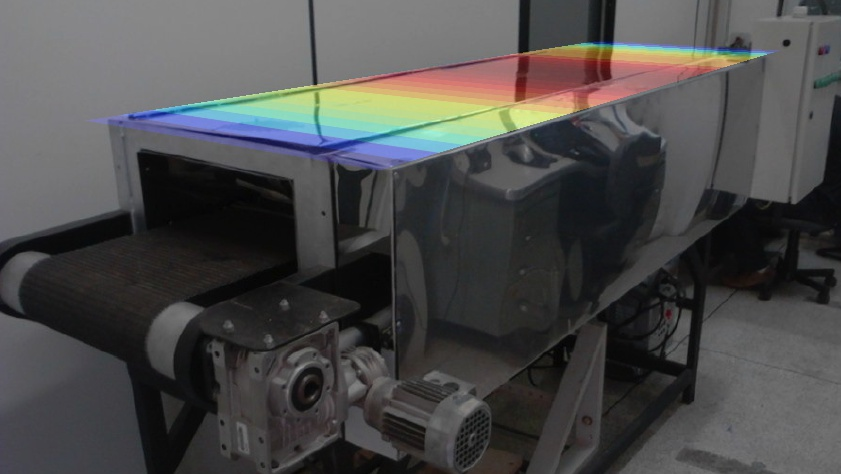
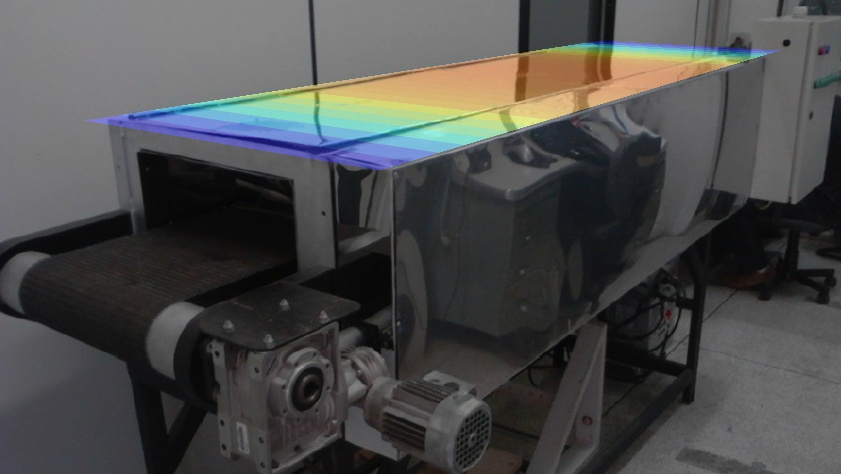
biscoito

Changed region(s): [[0.3401, 0.0886, 0.9275, 0.2658], [0.0927, 0.2363, 0.4946, 0.3544]]

diff --git a/source/forno_gui.py b/source/forno_gui.py
@@ -242,7 +242,7 @@ class Ui_MainWindow(object):
         self.label_40.setObjectName(_fromUtf8("label_40"))
         self.toolBox.addItem(self.page, _fromUtf8(""))
         self.page_3 = QtGui.QWidget()
-        self.page_3.setGeometry(QtCore.QRect(0, 0, 100, 30))
+        self.page_3.setGeometry(QtCore.QRect(0, 0, 581, 382))
         self.page_3.setObjectName(_fromUtf8("page_3"))
         self.comboBox_displayPerfilPotencia = QtGui.QComboBox(self.page_3)
         self.comboBox_displayPerfilPotencia.setGeometry(QtCore.QRect(10, 150, 91, 31))
@@ -335,7 +335,7 @@ class Ui_MainWindow(object):
         self.label_layoutForno_2.setAlignment(QtCore.Qt.AlignCenter)
         self.label_layoutForno_2.setObjectName(_fromUtf8("label_layoutForno_2"))
         self.pushButton_teste1 = QtGui.QPushButton(self.tab_12)
-        self.pushButton_teste1.setGeometry(QtCore.QRect(30, 420, 101, 31))
+        self.pushButton_teste1.setGeometry(QtCore.QRect(490, 420, 81, 31))
         self.pushButton_teste1.setObjectName(_fromUtf8("pushButton_teste1"))
         self.label_37 = QtGui.QLabel(self.tab_12)
         self.label_37.setGeometry(QtCore.QRect(20, 10, 481, 281))
@@ -344,13 +344,35 @@ class Ui_MainWindow(object):
         self.label_colorbar = QtGui.QLabel(self.tab_12)
         self.label_colorbar.setGeometry(QtCore.QRect(520, 20, 51, 271))
         self.label_colorbar.setObjectName(_fromUtf8("label_colorbar"))
+        self.checkBox_calcPerfil = QtGui.QCheckBox(self.tab_12)
+        self.checkBox_calcPerfil.setGeometry(QtCore.QRect(170, 430, 131, 21))
+        self.checkBox_calcPerfil.setObjectName(_fromUtf8("checkBox_calcPerfil"))
+        self.checkBox_mostraPerfil = QtGui.QCheckBox(self.tab_12)
+        self.checkBox_mostraPerfil.setGeometry(QtCore.QRect(300, 430, 151, 21))
+        self.checkBox_mostraPerfil.setObjectName(_fromUtf8("checkBox_mostraPerfil"))
+        self.checkBox_perfilAuto = QtGui.QCheckBox(self.tab_12)
+        self.checkBox_perfilAuto.setEnabled(False)
+        self.checkBox_perfilAuto.setGeometry(QtCore.QRect(10, 430, 61, 18))
+        self.checkBox_perfilAuto.setChecked(False)
+        self.checkBox_perfilAuto.setObjectName(_fromUtf8("checkBox_perfilAuto"))
+        self.spinBox_calcPerfil = QtGui.QSpinBox(self.tab_12)
+        self.spinBox_calcPerfil.setGeometry(QtCore.QRect(90, 430, 51, 21))
+        self.spinBox_calcPerfil.setMinimum(1)
+        self.spinBox_calcPerfil.setProperty("value", 5)
+        self.spinBox_calcPerfil.setObjectName(_fromUtf8("spinBox_calcPerfil"))
         self.tabWidget_4.addTab(self.tab_12, _fromUtf8(""))
         self.tab_13 = QtGui.QWidget()
         self.tab_13.setObjectName(_fromUtf8("tab_13"))
         self.widget_3 = matplotlibWidget(self.tab_13)
         self.widget_3.setEnabled(False)
-        self.widget_3.setGeometry(QtCore.QRect(10, 10, 561, 391))
+        self.widget_3.setGeometry(QtCore.QRect(10, 270, 561, 131))
         self.widget_3.setObjectName(_fromUtf8("widget_3"))
+        self.pushButton_testeAlimento = QtGui.QPushButton(self.tab_13)
+        self.pushButton_testeAlimento.setGeometry(QtCore.QRect(10, 410, 101, 41))
+        self.pushButton_testeAlimento.setObjectName(_fromUtf8("pushButton_testeAlimento"))
+        self.label_39 = QtGui.QLabel(self.tab_13)
+        self.label_39.setGeometry(QtCore.QRect(20, 20, 531, 241))
+        self.label_39.setObjectName(_fromUtf8("label_39"))
         self.tabWidget_4.addTab(self.tab_13, _fromUtf8(""))
         self.tabWidget.addTab(self.tab_9, _fromUtf8(""))
         self.tab_2 = QtGui.QWidget()
@@ -1073,8 +1095,8 @@ class Ui_MainWindow(object):
         self.retranslateUi(MainWindow)
         self.tabWidget.setCurrentIndex(2)
         self.tabWidget_2.setCurrentIndex(0)
-        self.toolBox.setCurrentIndex(0)
-        self.tabWidget_4.setCurrentIndex(1)
+        self.toolBox.setCurrentIndex(1)
+        self.tabWidget_4.setCurrentIndex(2)
         self.tabWidget_3.setCurrentIndex(0)
         self.comboBox_baudRate.setCurrentIndex(1)
         self.comboBox_cameraResolucao.setCurrentIndex(3)
@@ -1141,7 +1163,12 @@ class Ui_MainWindow(object):
         self.pushButton_teste1.setText(_translate("MainWindow", "Teste 1", None))
         self.label_37.setText(_translate("MainWindow", "TextLabel", None))
         self.label_colorbar.setText(_translate("MainWindow", "colorbar", None))
+        self.checkBox_calcPerfil.setText(_translate("MainWindow", "Calcular Perfil", None))
+        self.checkBox_mostraPerfil.setText(_translate("MainWindow", "Mostrar Imagem", None))
+        self.checkBox_perfilAuto.setText(_translate("MainWindow", "Auto", None))
         self.tabWidget_4.setTabText(self.tabWidget_4.indexOf(self.tab_12), _translate("MainWindow", "Simulacao Forno", None))
+        self.pushButton_testeAlimento.setText(_translate("MainWindow", "Teste", None))
+        self.label_39.setText(_translate("MainWindow", "TextLabel", None))
         self.tabWidget_4.setTabText(self.tabWidget_4.indexOf(self.tab_13), _translate("MainWindow", "Simulacao Alimento", None))
         self.tabWidget.setTabText(self.tabWidget.indexOf(self.tab_9), _translate("MainWindow", "Grafico", None))
         self.label_camera.setText(_translate("MainWindow", "PI Camera", None))

diff --git a/source/simulacao/alimento.py b/source/simulacao/alimento.py
@@ -1,7 +1,45 @@
 # -*- coding: latin-1 -*-
 import numpy as np
+from PyQt4 import QtGui
+from PyQt4 import QtCore
+from matplotlib import rcParams, cm
+import cv2
+from modulo_global import *
 
-def evolui_tempo(tf,
+def teste(self):
+    T0 = np.ones((30,60))*300 #   dimensão 2, size nr + 1, nh + 1
+    T = evolui_tempo(10, T0, T_paredes=500, T_esteira=400) - 273.5
+    T = np.flipud(T)
+    T = np.concatenate((np.fliplr(T),T),axis=1)
+    self.ui.widget_3.canvas.ax.clear()
+    cax = self.ui.widget_3.canvas.ax.imshow(T,label="teste",interpolation='nearest',
+                                      aspect='auto', cmap=cm.jet)#, vmin=25, vmax=350)
+    self.ui.widget_3.canvas.ax.axis('off')
+    self.ui.widget_3.canvas.fig.savefig('imagens/temp-alimento.jpg', bbox_inches='tight', pad_inches=0)
+    self.ui.widget_3.canvas.ax.axis('on')
+    #self.ui.widget_2.canvas.fig.colorbar(cax)
+    self.ui.widget_3.canvas.draw()
+
+    perfil = cv2.imread('imagens/temp-alimento.jpg')
+    perfil = perfil[7:-25,27:]
+
+    global biscoito
+
+    col, lin, _ = biscoito.shape
+    perfil = cv2.resize(perfil,(lin, col))
+
+    pts1 = np.float32([[0,0],[0,col],[lin,col],[lin,0]])
+    p1, p2, p3, p4 = [85,120], [85,320], [1050,320], [1050,120]
+    pts2 = np.float32([p1, p2, p3, p4])
+
+    M = cv2.getPerspectiveTransform(pts1,pts2)
+
+    perfil = cv2.warpPerspective(perfil,M,(lin,col))
+    perfil = cv2.addWeighted(biscoito,0.8,perfil,0.6,0)
+    cv2.imwrite('imagens/teste-img2.jpg',perfil)
+    self.ui.label_39.setPixmap(QtGui.QPixmap("imagens/teste-img2.jpg").scaled(self.ui.label_39.size(), QtCore.Qt.KeepAspectRatio))
+
+def evolui_tempo(tf, T,
                  dt=0.05, nr = 60, nh = 30,
                  R = 5.0e-2, H = 1.0e-2,
                  k = 0.1, rho = 400, Cp = 3000, h_convec = 5.0, epsion = 0.7,
@@ -41,7 +79,7 @@ def evolui_tempo(tf,
     r = np.linspace(0,R,nr)
 
     # cria a matriz da temperatura inicial - array of float
-    T = np.ones((nh,nr))*T_ambiente #   dimensão 2, size nr + 1, nh + 1
+    #T = np.ones((nh,nr))*T_ambiente #   dimensão 2, size nr + 1, nh + 1
 
     # matriz para valores de r en função, montadas em uma matriz concatenada de
     # colunas para operação vetorizada no loop

diff --git a/source/tela.py b/source/tela.py
@@ -8,6 +8,7 @@ import banco.bd_config as bd_config
 import banco.bd_calibracao as bd_calibracao
 import banco.bd_sensores as bd_sensores
 import simulacao.forno1d
+import simulacao.alimento
 import forno_gui, calibracao, comunicacao_serial, automatico
 import camera_rp, graficos, exporta_experimentos, controle_pid
 
@@ -155,6 +156,7 @@ class Main(QtGui.QMainWindow):
 
         ####### Connexões #####################################################
         self.ui.pushButton_teste1.pressed.connect(partial(simulacao.forno1d.teste,self))
+        self.ui.pushButton_testeAlimento.pressed.connect(partial(simulacao.alimento.teste,self))
 
         self.ui.pushButton_pidUpdate.pressed.connect(partial(controle_pid.update_config_pid,self))
         self.ui.pushButton_pid_limpar.pressed.connect(partial(controle_pid.limpa_lineEdit,self))

diff --git a/source/simulacao/forno1d.py b/source/simulacao/forno1d.py
@@ -12,11 +12,11 @@ import graficos
 from modulo_global import *
 
 def teste(self):
-    T = calcula_perfil(200,250,280,260,300,100,350)
+    T = calcula_perfil(30,250,280,260,300,100,350)
     R = gera_matriz_imagem(T)
     self.ui.widget_2.canvas.ax.clear()
     cax = self.ui.widget_2.canvas.ax.imshow(R,label="teste",interpolation='nearest',
-                                      aspect='auto', cmap=cm.jet)#, vmin=0, vmax=400)
+                                      aspect='auto', cmap=cm.jet, vmin=25, vmax=350)
     self.ui.widget_2.canvas.ax.axis('off')
     self.ui.widget_2.canvas.fig.savefig('imagens/temperatura.jpg', bbox_inches='tight', pad_inches=0)
 

diff --git a/source/modulo_global.py b/source/modulo_global.py
@@ -3,6 +3,8 @@ import os, sys, serial, cv2
 
 global forno
 forno = cv2.imread('imagens/forno-pre.jpg')
+global biscoito
+biscoito = cv2.imread('imagens/biscoito.PNG')
 
 
 def local_parent():
